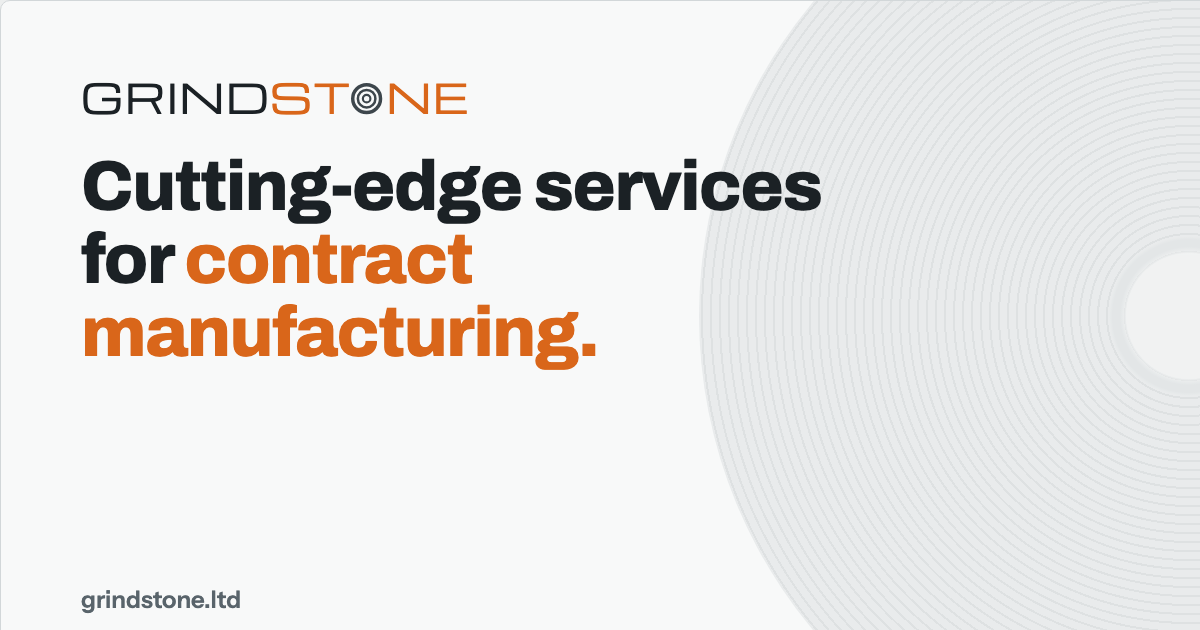
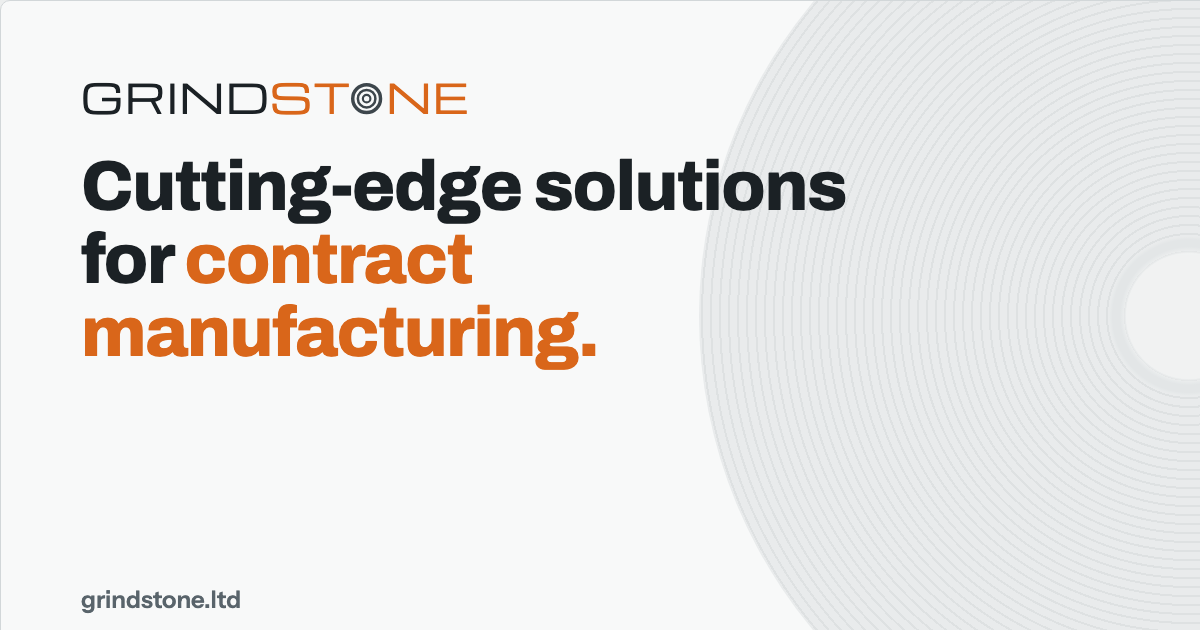
Home headline: solutions instead of services

Changed region(s): [[0.4933, 0.2413, 0.7092, 0.3317]]

diff --git a/docs/index.html b/docs/index.html
@@ -3,22 +3,22 @@
 <head>
 <meta charset="utf-8">
 <meta name="viewport" content="width=device-width, initial-scale=1">
-<title>Grindstone | Cutting-edge services for contract manufacturing</title>
+<title>Grindstone | Cutting-edge solutions for contract manufacturing</title>
 <meta name="description" content="Grindstone runs EMS Directory, builds drumbeat+ sales and operations software, and offers hands-on consultancy for contract electronics manufacturers.">
 <link rel="canonical" href="https://grindstone.ltd/">
 <meta property="og:type" content="website">
 <link rel="alternate" type="application/rss+xml" title="Grindstone blog" href="https://grindstone.ltd/blog/feed.xml">
 <meta property="og:site_name" content="Grindstone Ltd">
-<meta property="og:title" content="Grindstone | Cutting-edge services for contract manufacturing">
+<meta property="og:title" content="Grindstone | Cutting-edge solutions for contract manufacturing">
 <meta property="og:description" content="Grindstone runs EMS Directory, builds drumbeat+ sales and operations software, and offers hands-on consultancy for contract electronics manufacturers.">
 <meta property="og:url" content="https://grindstone.ltd/">
 <meta property="og:locale" content="en_GB">
 <meta property="og:image" content="https://grindstone.ltd/og/home.png">
 <meta property="og:image:width" content="1200">
 <meta property="og:image:height" content="630">
-<meta property="og:image:alt" content="Grindstone | Cutting-edge services for contract manufacturing">
+<meta property="og:image:alt" content="Grindstone | Cutting-edge solutions for contract manufacturing">
 <meta name="twitter:card" content="summary_large_image">
-<meta name="twitter:title" content="Grindstone | Cutting-edge services for contract manufacturing">
+<meta name="twitter:title" content="Grindstone | Cutting-edge solutions for contract manufacturing">
 <meta name="twitter:description" content="Grindstone runs EMS Directory, builds drumbeat+ sales and operations software, and offers hands-on consultancy for contract electronics manufacturers.">
 <meta name="twitter:image" content="https://grindstone.ltd/og/home.png">
 <link rel="icon" href="/favicon.svg" type="image/svg+xml">
@@ -486,7 +486,7 @@
     <div class="wheel" aria-hidden="true"></div>
     <div class="hero">
       <div class="wrap">
-        <h1><span class="nowrap">Cutting-edge</span> services for <em>contract manufacturing.</em></h1>
+        <h1><span class="nowrap">Cutting-edge</span> solutions for <em>contract manufacturing.</em></h1>
         <p class="lead lead-big">Sourcing, software and support for contract manufacturing, built on over thirty years in engineering, sales and operations across OEMs, Tier 1s and EMS companies.</p>
       </div>
     </div>

diff --git a/build.py b/build.py
@@ -67,7 +67,7 @@ ORG = {"@type": "Organization", "name": "Grindstone Ltd", "url": SITE + "/", "sa
 PAGES = [
     {
         "id": "home", "path": "/", "nav": "Home",
-        "title": "Grindstone | Cutting-edge services for contract manufacturing",
+        "title": "Grindstone | Cutting-edge solutions for contract manufacturing",
         "description": "Grindstone runs EMS Directory, builds drumbeat+ sales and operations software, and offers hands-on consultancy for contract electronics manufacturers.",
         "jsonld": {"@context": "https://schema.org", **ORG,
                    "legalName": "Grindstone Ltd",
@@ -81,7 +81,7 @@ PAGES = [
     <div class="wheel" aria-hidden="true"></div>
     <div class="hero">
       <div class="wrap">
-        <h1><span class="nowrap">Cutting-edge</span> services for <em>contract manufacturing.</em></h1>
+        <h1><span class="nowrap">Cutting-edge</span> solutions for <em>contract manufacturing.</em></h1>
         <p class="lead lead-big">Sourcing, software and support for contract manufacturing, built on over thirty years in engineering, sales and operations across OEMs, Tier 1s and EMS companies.</p>
       </div>
     </div>

diff --git a/make_og.py b/make_og.py
@@ -43,7 +43,7 @@ def card(brand, headline, path, long=False):
 
 
 def cards():
-    yield "home", card(MARK, '<span class="nowrap">Cutting-edge</span> services for <em>contract manufacturing.</em>', "/")
+    yield "home", card(MARK, '<span class="nowrap">Cutting-edge</span> solutions for <em>contract manufacturing.</em>', "/")
     yield "ems-directory", card(b.EMS_WM, "Find the UK EMS partner that fits the job.", "/ems-directory/")
     yield "drumbeat", card(b.DRUM_WM + b.TM, "Your ERP keeps the books. " + b.DRUM_WM + " keeps the beat.", "/drumbeat/")
     yield "consultancy", card(MARK + '<span class="eyebrow">Consultancy</span>', "Contract manufacturing consultancy, remotely or on your shop floor.", "/consultancy/")
